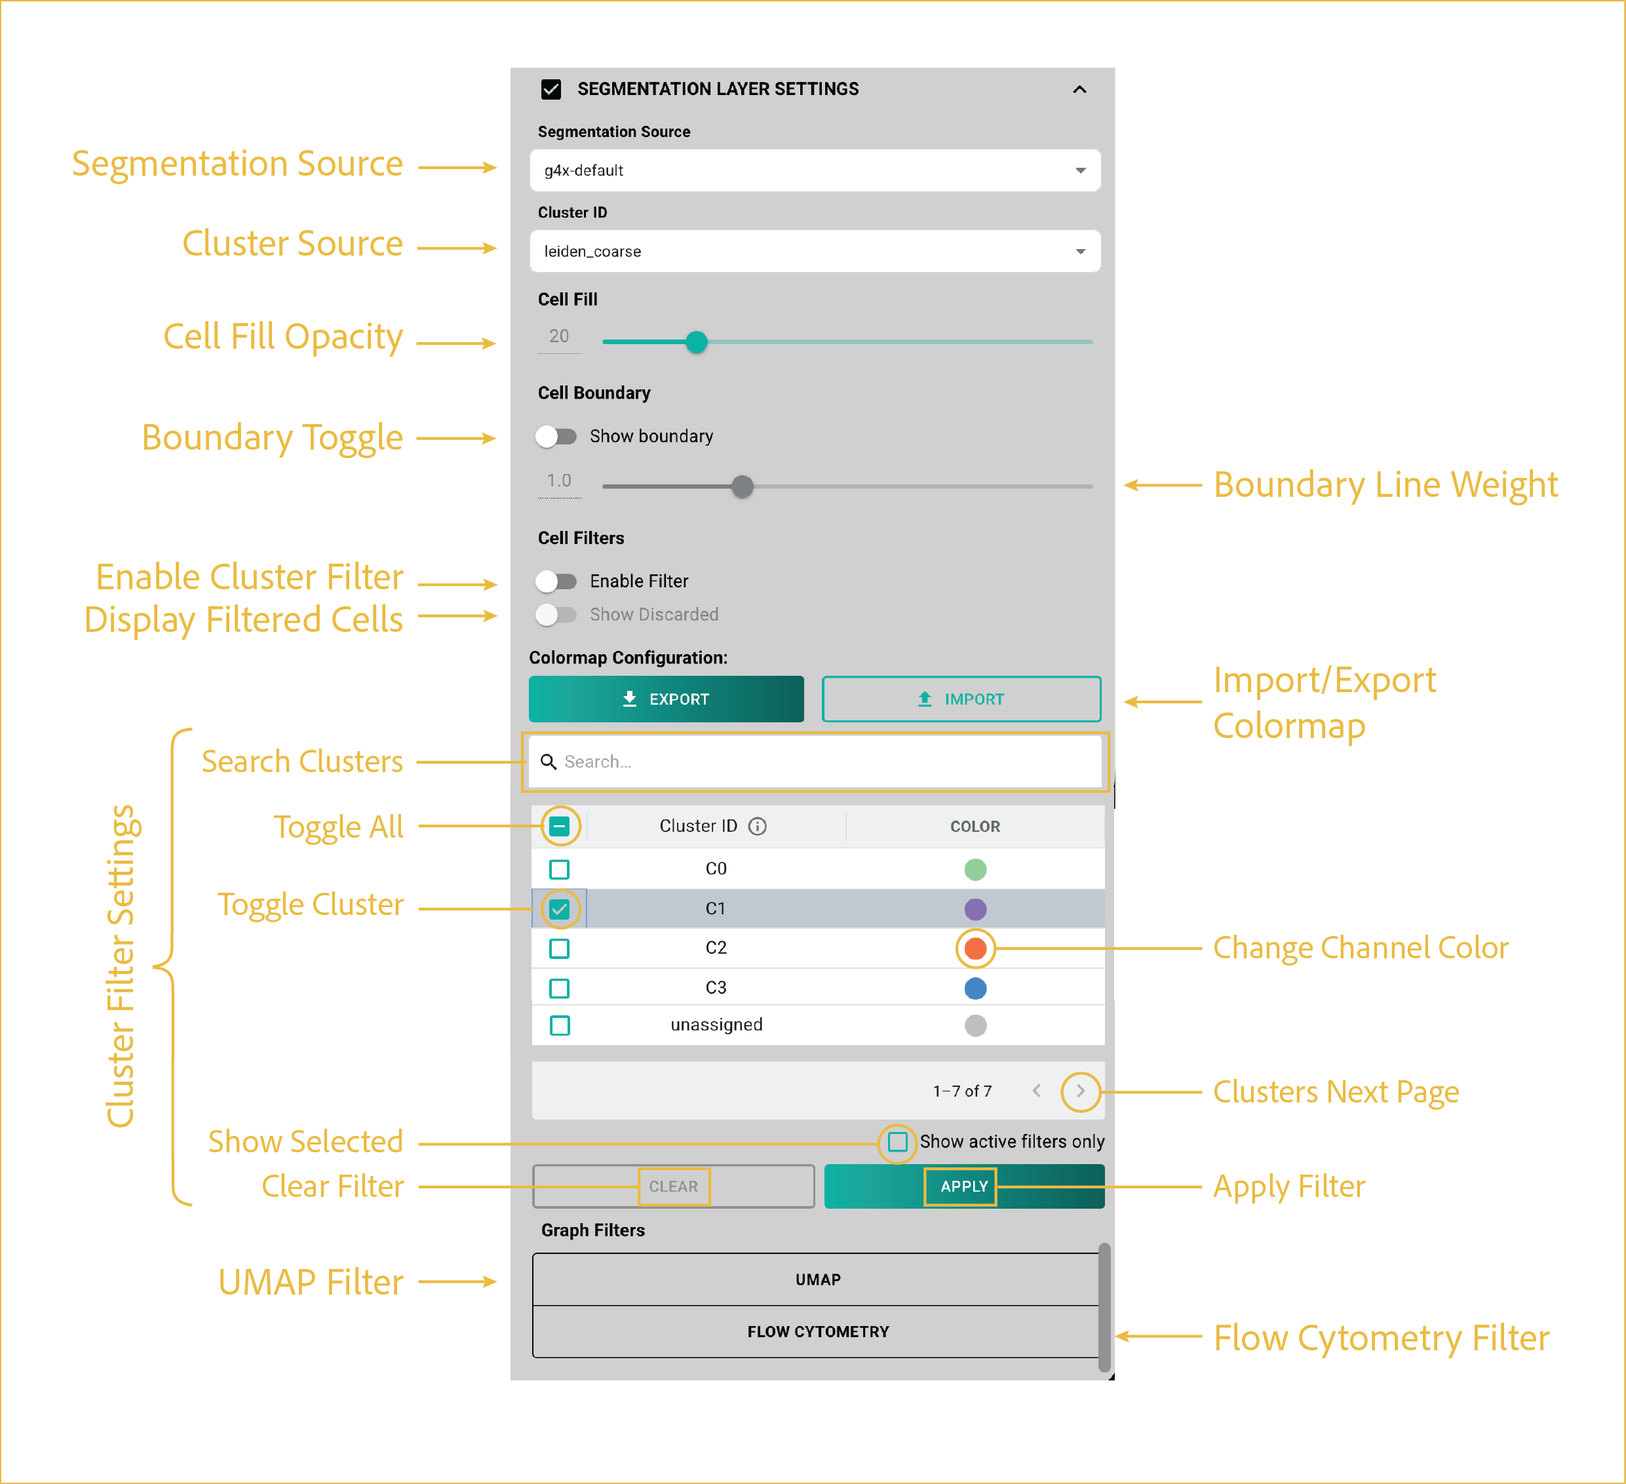
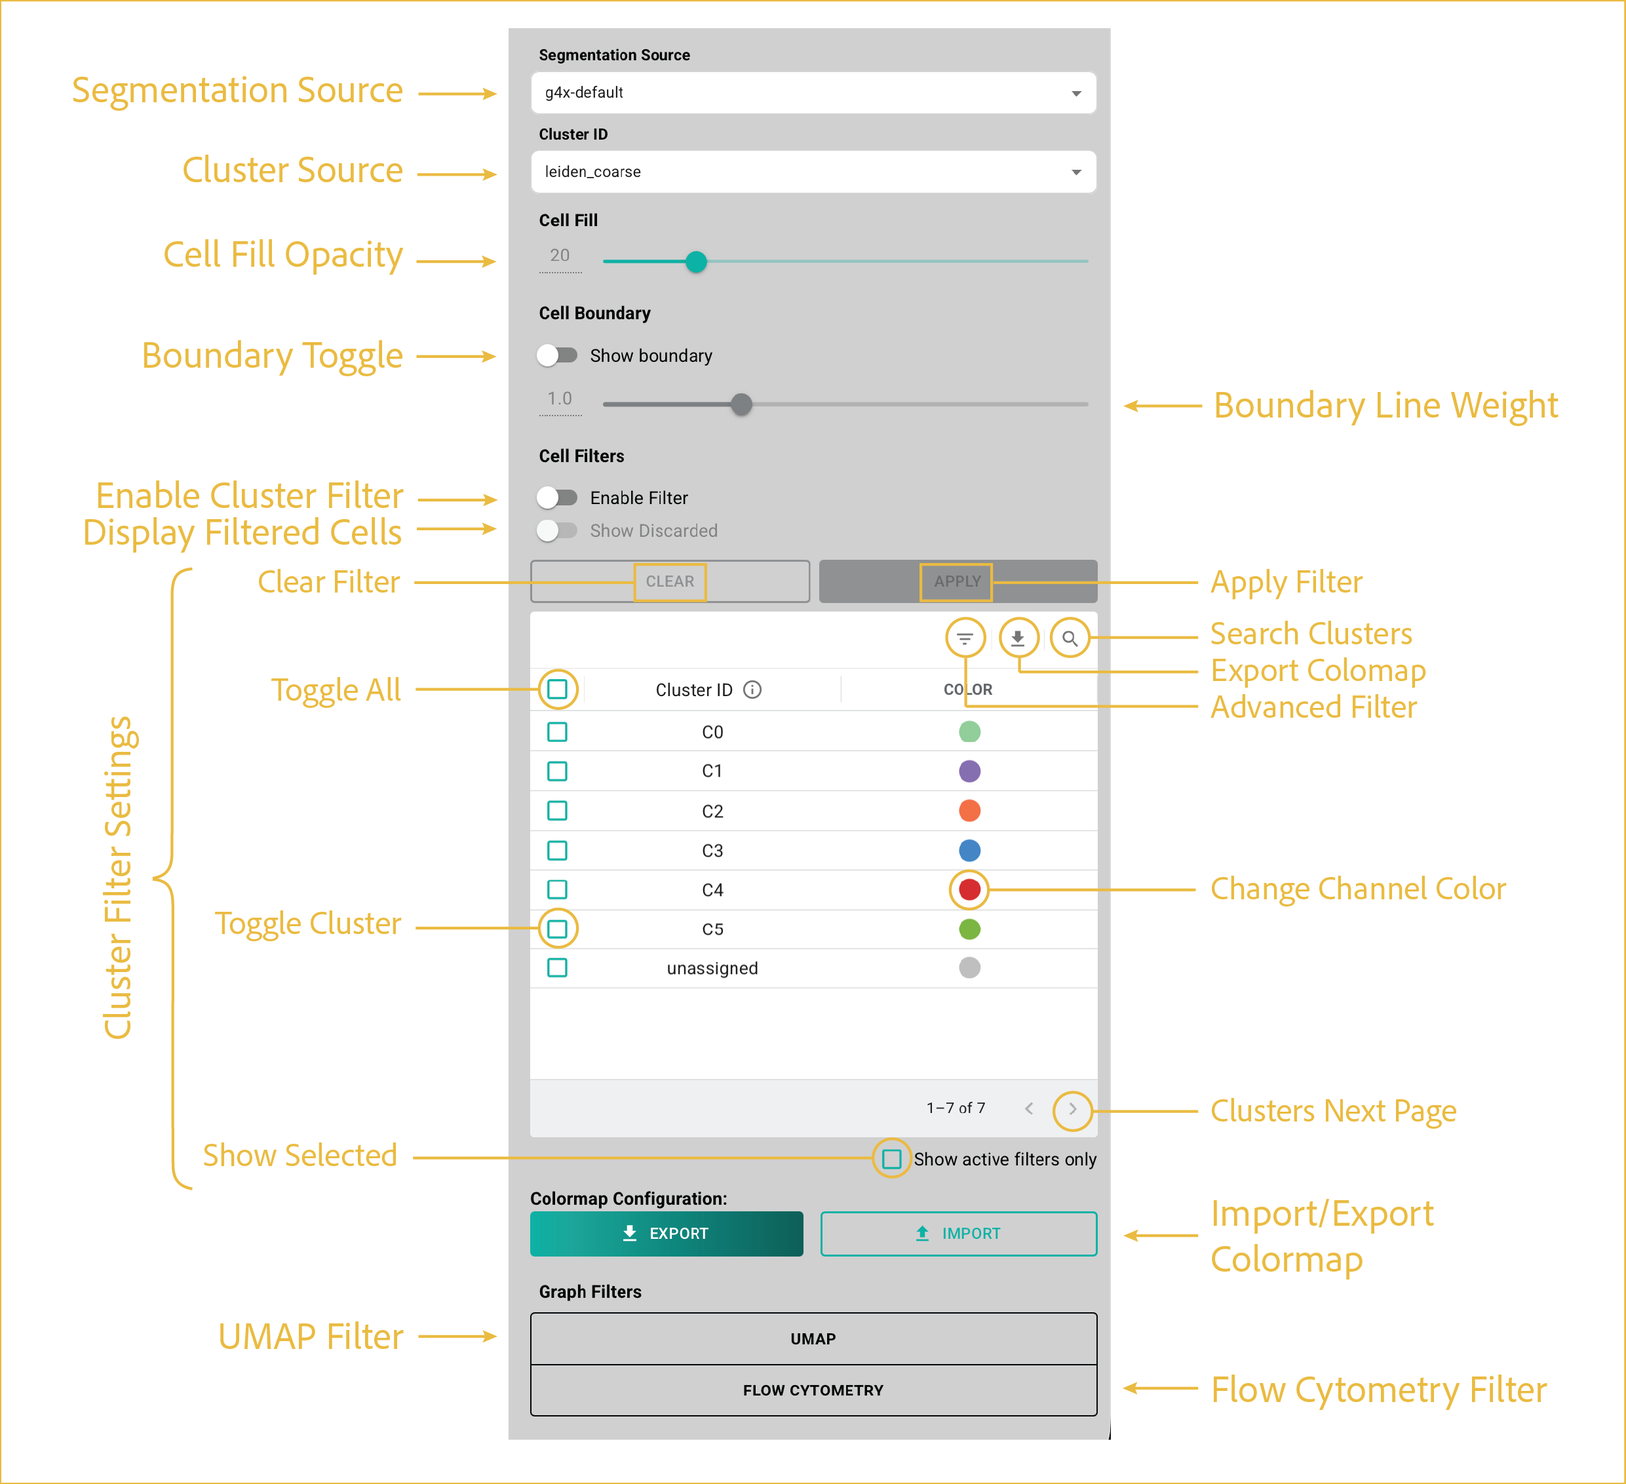
A2 release viewer docs (#287)
* Adding core folder back in for proper loading of inherited formats.

* updating all images for new viewer UI for A2 release

* minor formatting fixes

* fixing more basic formatting/UI changes.

* minor edits for consistency

* remove _core_docs submodule

* apply new deploy key for docs deployment

* revise accuracy of index

---------

diff --git a/docs/index.md b/docs/index.md
@@ -3,7 +3,7 @@
 <span style="margin-top:-3rem; display:block;"><a href="https://g4x-viewer.singulargenomics.com">g4x-viewer.singulargenomics.com</a></span>
 <br>
 
-#### Explore the G4X-Viewer
+#### Explore G4X-data
 
 ![G4X Viewer](./images/homepage.png)
 
@@ -11,24 +11,24 @@
 
 <br>
 
-G4X-viewer is an advanced, open source project designed to visualize imaging data using modern web technologies. The project is continuously evolving to provide an intuitive and flexible interface for the analysis and presentation of complex datasets. Inspired by the [Viv](https://github.com/hms-dbmi/viv) library, our goal is to push the boundaries of interactive data visualization in web applications.
+G4X-viewer is an open-source, browser-based application for interactive visualization of [G4X-data](https://docs.singulargenomics.com/g4x_data/). Explore tissue images, transcripts, and segmented cells, adjust layer visibility, filter cells, and capture screenshots of features of interest. The available layers depend on the data included in your sample.
 
-The G4X-viewer enables you to visualize and interact with your [G4X data](https://docs.singulargenomics.com/g4x_data/g4x_output/) in a user-friendly interface. With it, you can begin to understand spatial patterning of your tissues, take screenshots of specific features of interest, subsample your data, and gain insights into your specific biological system.
+Use regions of interest (ROIs) to compare selected areas of your sample in the dashboard and export data for further analysis. Transcript display controls let you adjust how many transcripts are rendered while exploring large datasets.
 
-We provide a web-based version of the G4X-viewer that can be accessed through our [website](https://g4x-viewer.singulargenomics.com). For users who want to use it locally, we also provide installation instructions on our [Github](https://github.com/Singular-Genomics/G4X-viewer).
+Use the [hosted application](https://g4x-viewer.singulargenomics.com), or run the same web application locally using the instructions in the [GitHub repository](https://github.com/Singular-Genomics/G4X-viewer#getting-started).
 
-!!! tip
-    Older data sets may require use of our [legacy viewer](https://g4x-viewer.legacy.singulargenomics.com) if the data was generated before December 2025. In this legacy viewer, many analysis features will be unavailable.
+!!! tip "Data compatibility"
+    G4X-viewer v4 uses the `g4x-viewer.zarr` store. For older datasets that use separate viewer files, use the [legacy viewer](https://g4x-viewer.legacy.singulargenomics.com), or use [G4X-helpers migrate](https://docs.singulargenomics.com/G4X-helpers/features/migrate/) to convert supported legacy data and generate a v4-compatible viewer store.
 <br>
 
 ### [viewer](viewer/index.md)
 ---
 
-Navigate to the [viewer](viewer/index.md) page to learn how to interact with the G4X-viewer's core functions. These pages comprehensively go through all interactable elements on the viewer tab and how to use them, organized by which modalities and image layers are being manipulated.
+Start with the [viewer guide](viewer/index.md) to learn how to load your sample and use the controls for each data layer.
 
 The viewer pages include:
 
-+ uploading source files
++ loading source data
 + on-screen controls
 + protein layer controls
 + fH&E layer controls
@@ -42,7 +42,7 @@ The viewer pages include:
 ### [dashboard](dashboard/index.md)
 ---
 
-Navigate to the [dashboard](dashboard/index.md) page to learn how to use the dashboard tab to perform basic analysis on your data without ever leaving the G4X-viewer. All dashboard features are instanced with your viewer window to allow you to seamlessly jump between looking at your data and performing rapid analysis.
+Use the [dashboard guide](dashboard/index.md) to compare transcript, cell, and protein information across selected ROIs. The viewer and dashboard share the same session, so you can switch between spatial exploration and ROI comparisons. Available plots depend on the data in your sample.
 
 The dashboard pages include:
 
@@ -57,7 +57,7 @@ The dashboard pages include:
 ### [resources](resources.md)
 ---
 
-Please navigate to the G4X-viewer [resources](./resources.md) to help you leverage the suite of tools available in the G4X-viewer
+See [resources](./resources.md) for video tutorials and introductory slides. Some resources demonstrate earlier viewer versions, so controls and supported data formats may differ from v4.
 
 <br>
 
@@ -71,6 +71,6 @@ Found a bug or want to report another problem regarding G4X-viewer?
 :material-arrow-right-thin: please file a new issue on the G4X-viewer [issue tracker](https://github.com/Singular-Genomics/G4X-viewer/issues)  
 
 Want to get involved and add new features?  
-:material-arrow-right-thin: check out how to [contribute](https://github.com/Singular-Genomics/G4X-viewer?tab=contributing-ov-file#readme) 
+:material-arrow-right-thin: check out how to [contribute](contributing.md).
 
 --8<-- "_core/_partials/end_cap.md"

diff --git a/docs/viewer/segmentation.md b/docs/viewer/segmentation.md
@@ -42,27 +42,29 @@ These controls select segmentation and cluster sources, style cell masks, and ap
 
 - <b><u>Display Filtered Cells:</u></b>
 
-      Shows or hides cells specified by the filters below. Filtered cells display as gray polygons in the cell mask layer. The **Display Filtered Cells** option is available only when a filter is actively applied to the image.
-
-- <b><u>Import/Export Colormap:</u></b>
-
-      Import or export segmentation visualization settings and colormap configurations.
-
-      - **Import:** Click the button and select a previously saved JSON configuration file.
-      - **Export:** Configure the segmentation settings as desired, then click **Export** and choose a save location and filename.
+      Shows or hides cells excluded by the active filter. When shown, excluded cells appear as gray polygons in the cell mask layer. This option is available only when a filter is actively applied to the image.
 
 - <b><u>Cluster Filter Settings:</u></b>
 
       These features specify the filter state for cell mask overlays. They rely on clustering information and expression of protein or RNA species of interest. Clusters labeled **-1** were not assigned to a cluster, typically due to filtering or quality-control processes in onboard analysis.
 
-      - **Search Clusters:** Search clusters based on cluster names. Manually updated cluster names can be used to label cell types or other annotations.
+      - **Apply Filter:** Applies the current filter to the displayed image.
+      - **Clear Filter:** Clears the current filter from the displayed image.
+      - **Search Clusters:** Searches clusters by name. Manually updated cluster names can represent cell types or other annotations.
+      - **Export Colormap:** Exports the displayed cluster and color data.
+      - **Advanced Filter:** Opens additional options for filtering the cluster table.
       - **Toggle All:** Toggles selection of all clusters on or off.
       - **Toggle Cluster:** Toggles selection for a single cluster.
       - **Show Selected:** Hides all non-selected clusters.
       - **Change Channel Color:** Changes the color selection for a given cluster.
-      - **Change Page:** Changes the displayed page when there are too many clusters to display at once.
-      - **Apply Filter:** Applies the current filter to the displayed image.
-      - **Clear Filter:** Clears the current filter from the displayed image.
+      - **Change Page:** Moves between pages when there are too many clusters to display at once.
+
+- <b><u>Import/Export Colormap:</u></b>
+
+      Import or export the cluster colormap as a JSON configuration file.
+
+      - **Import:** Click **Import**, then select a previously saved JSON configuration file.
+      - **Export:** Configure the cluster colors as desired, then click **Export** and choose a save location and filename.
 
 - <b><u>UMAP Filter:</u></b>
 

diff --git a/docs/viewer/on_screen_controls.md b/docs/viewer/on_screen_controls.md
@@ -20,7 +20,14 @@ These controls sit directly in the viewer window and support dashboard access, R
 
     Opens the [dashboard](../dashboard/index.md) for analysis of user-selected ROIs. Switching between **Dashboard** and **Viewer** keeps the same session and shared save state.
 
-- <b><u>View G4X Summary Report:</u></b>
+- <b><u>Export All Settings:</u></b>
+
+    Opens a dialog where you can copy all current viewer settings as either a complete G4X-viewer URL or a settings string. You can share either format with other users or reuse it to apply the same settings across sessions and samples. To import settings, paste the URL or string into the corresponding field, then click **Apply**. Both formats include settings from the individual viewer layers.
+
+!!! tip "Find your preferred settings and save them"
+    Once you've found settings that work well for you, copy the URL or settings string and save it with your project notes. Reusing it makes it faster to explore samples with a consistent view of your data.
+
+- <b><u>Summary Report:</u></b>
 
     Opens the G4X Sample Summary Report HTML file. This report details core run statistics and information to help you assess data quality. The report is also available in the root directory for each sample. For more details on standard output files, see [G4X data](https://docs.singulargenomics.com/g4x_data/).
 
@@ -38,7 +45,9 @@ These controls sit directly in the viewer window and support dashboard access, R
 
     - **Screenshot:** Capture screenshots directly from the viewer and save them to your local device. Screenshots include only the current viewing area and exclude viewer interface elements such as side panels, menus, and buttons.
 
-    - **Export/Import Polygons:** Import or export polygons and their associated metadata. Exported files can include polygon vertices, metadata, and transcript contents. Supported export formats include **JSON** and **CSV**. Exported polygon coordinates can be imported later to restore previously saved ROIs from **JSON** files.
+    - **Export Polygons:** Export polygons and their associated metadata. Exported files can include polygon vertices, metadata, and transcript contents. Supported formats include **JSON** and **CSV**.
+
+    - **Import Polygons:** Import a previously exported **JSON** file to restore saved polygons. **CSV** exports cannot be imported.
 
     - **Draw Polygon (ROI Selection):** Create custom regions of interest (ROIs) for analysis and export. There is no limit to the number of ROIs that can be created. Once completed, the ROI is automatically analyzed for the cells, transcripts, and protein intensity contained within its boundaries. Polygons can be edited, imported, exported, and used for downstream analysis.
 

diff --git a/docs/viewer/transcript.md b/docs/viewer/transcript.md
@@ -34,27 +34,29 @@ These controls balance transcript rendering performance with transcript display 
 
 - <b><u>Display Filtered Tx:</u></b>
 
-      Shows or hides transcript species specified by the filters below. The **Display Filtered Tx** option is available only when a filter is actively applied to the image.
-
-- <b><u>Import/Export Colormap:</u></b>
-
-      Import or export transcript visualization settings and colormap configurations.
-
-      - **Import:** Click the button and select a previously saved JSON configuration file.
-      - **Export:** Configure the transcript settings as desired, then click **Export** and choose a save location and filename.
+      Shows or hides transcripts excluded by the active filter. This option is available only when a filter is actively applied to the image.
 
 - <b><u>Transcript Filter Settings:</u></b>
 
       These features specify the filter state for transcript overlays. All transcripts are displayed regardless of whether they are assigned to a cell.
 
-      - **Search Genes:** Search gene species identified in your data.
+      - **Apply Filter:** Applies the current filter to the displayed image.
+      - **Clear Filter:** Clears the current filter from the displayed image.
+      - **Search Genes:** Searches the gene targets identified in your data.
+      - **Export Colormap:** Exports the displayed gene and color data.
+      - **Advanced Filter:** Opens additional options for filtering the gene table.
       - **Toggle All:** Toggles selection of all genes on or off.
       - **Toggle Gene:** Toggles selection for a single gene.
       - **Change Gene Color:** Changes the color selection for a given gene.
       - **Show Selected:** Hides all non-selected genes.
-      - **Change Page:** Changes the displayed page when there are too many genes to display at once.
-      - **Apply Filter:** Applies the current filter to the displayed image.
-      - **Clear Filter:** Clears the current filter from the displayed image.
+      - **Change Page:** Moves between pages when there are too many genes to display at once.
+
+- <b><u>Import/Export Colormap:</u></b>
+
+      Import or export the gene colormap as a JSON configuration file.
+
+      - **Import:** Click **Import**, then select a previously saved JSON configuration file.
+      - **Export:** Configure the gene colors as desired, then click **Export** and choose a save location and filename.
 
 <br>
 

diff --git a/docs/viewer/protein.md b/docs/viewer/protein.md
@@ -25,16 +25,6 @@ These controls configure protein channel visibility, color, intensity range, and
 
       Enables the protein lens visualization tool. When activated, a selection panel appears, allowing you to choose a protein channel to focus on with the **Lens** tool. The selected channel is displayed in color within the lens area (the lens tracks your cursor position), while all other active protein channels are displayed in grayscale.
 
-- <b><u>Import/Export Protein Settings:</u></b>
-
-      Import or export protein visualization settings.
-
-      - **Import:** Click the button and select a previously saved JSON configuration file.
-      - **Export:** Configure the protein settings as desired, then click **Export** and choose a save location and filename.
-
-    !!! tip "Find and save your preferred settings"
-        We recommend configuring your preferred protein display settings once, then exporting and reusing the saved configuration for future samples to save time!
-
 - <b><u>Protein Display Settings:</u></b>
 
       This section includes several configurable options that allow you to customize how protein data is displayed and interpreted.
@@ -49,6 +39,16 @@ These controls configure protein channel visibility, color, intensity range, and
       - **Change Channel Color:** Allows selection of the channel color from a preset list of color options for the specific channel. Repeat color selections are allowed.
       - **Expand Range:** Expands the default protein intensity range slider to allow broader **Channel Min/Max** values to be set for the specific channel.
       - **Reset Default Range:** Resets **Channel Min/Max** values to default values for the specific channel.
+
+- <b><u>Import/Export Settings:</u></b>
+
+      Import or export protein channel settings as a JSON configuration file.
+
+      - **Import:** Click **Import**, then select a previously saved JSON configuration file.
+      - **Export:** Configure the protein channels as desired, then click **Export** and choose a save location and filename.
+
+    !!! tip "Find and save your preferred settings"
+        Configure your preferred protein display settings once, then export and reuse the saved configuration for future samples.
 
 <br>
 

diff --git a/docs/viewer/source_files.md b/docs/viewer/source_files.md
@@ -20,7 +20,7 @@ These controls cover data loading, Z-plane navigation, scale adjustment, and lay
 
     Use this button to paste a cloud storage link and stream data into the viewer in real time.
 
-- <b><u>File Upload:</u></b>
+- <b><u>Local Upload:</u></b>
 
     Use this button to upload files from local storage. Depending on the viewer version, you can:
 
@@ -37,9 +37,9 @@ These controls cover data loading, Z-plane navigation, scale adjustment, and lay
 
       For additional information about viewer-compatible output files, see the [g4x_viewer output documentation](https://docs.singulargenomics.com/g4x_data/output_files/g4x_viewer/).
 
-- <b><u>Z-Layer Control:</u></b>
+- <b><u>Image Size/Layer:</u></b>
 
-      Enables navigation between image Z planes in multidimensional image datasets. Standard G4X datasets typically contain a single Z plane, so these controls are usually fixed or unavailable during normal use.
+      Displays the current layer, total layer count, and image dimensions.
 
 - <b><u>Manual Scaling:</u></b>
 
@@ -54,7 +54,7 @@ These controls cover data loading, Z-plane navigation, scale adjustment, and lay
       Shows or hides image layers displayed in the viewer.
 
       - **Channel Settings:** Shows or hides protein image layers.
-      - **Brightfield Image Settings:** Shows or hides the fH&E layer.
+      - **Brightfield Images Settings:** Shows or hides the fH&E layer.
       - **Transcript Layer Settings:** Shows or hides transcript dots.
       - **Segmentation Layer Settings:** Shows or hides cell segmentation masks.
 

diff --git a/docs/resources.md b/docs/resources.md
@@ -15,9 +15,9 @@ A step-by-step [video walkthrough](https://go.singulargenomics.com/hubfs/2025%20
 ## G4X Viewer Introductory Slides
 ---
 
-A [slide deck](https://go.singulargenomics.com/hubfs/2025%20External%20Resources/Training%20Resources/G4X%20Viewer%20Training.pdf) to walk you through the core functions of the G4X Viewer, including how to load your data, navigate interfaces, and a set of helpful tips and tricks to make sure you know exactly how to get the most out of the G4X Viewer.
+A [slide deck](https://singulargenomics.box.com/s/mzbf5ofeqgv03xb3zerdghy5zud7vkg4) to walk you through the core functions of the G4X Viewer, including how to load your data, navigate interfaces, and a set of helpful tips and tricks to make sure you know exactly how to get the most out of the G4X Viewer.
 
-[![G4X Viewer Introductory Slides](./images/g4x_slides_image.png)](https://go.singulargenomics.com/hubfs/2025%20External%20Resources/Training%20Resources/G4X%20Viewer%20Training.pdf)
+[![G4X Viewer Introductory Slides](./images/g4x_slides_image.png)](https://singulargenomics.box.com/s/mzbf5ofeqgv03xb3zerdghy5zud7vkg4)
 
 <br>
 

diff --git a/docs/dashboard/roi_selection.md b/docs/dashboard/roi_selection.md
@@ -24,6 +24,9 @@ Everything below here assumes Drawing Mode is enabled.
 
 To begin drawing an ROI, make sure the **Draw Polygon** button is highlighted in teal. Left click the image area to place a vertex. Each subsequent left click will refine the polygon shape and extent by adding another vertex. The polygon finalizes when you double click the start vertex. Upon closure of the shape, your polygon will be analyzed for cells, transcripts, and protein information stored within it. ROIs can be edited, imported, exported, and used for analysis. There is no limit to the number of ROIs that can be drawn.
 
+!!! note "How is it determined if a cell is in an ROI?"
+    A cell is counted within an ROI when its centroid falls inside the ROI boundary. A cell whose centroid lies outside the boundary is not counted, even if most of the cell overlaps the ROI.
+
 
 ### Editing ROIs
 
